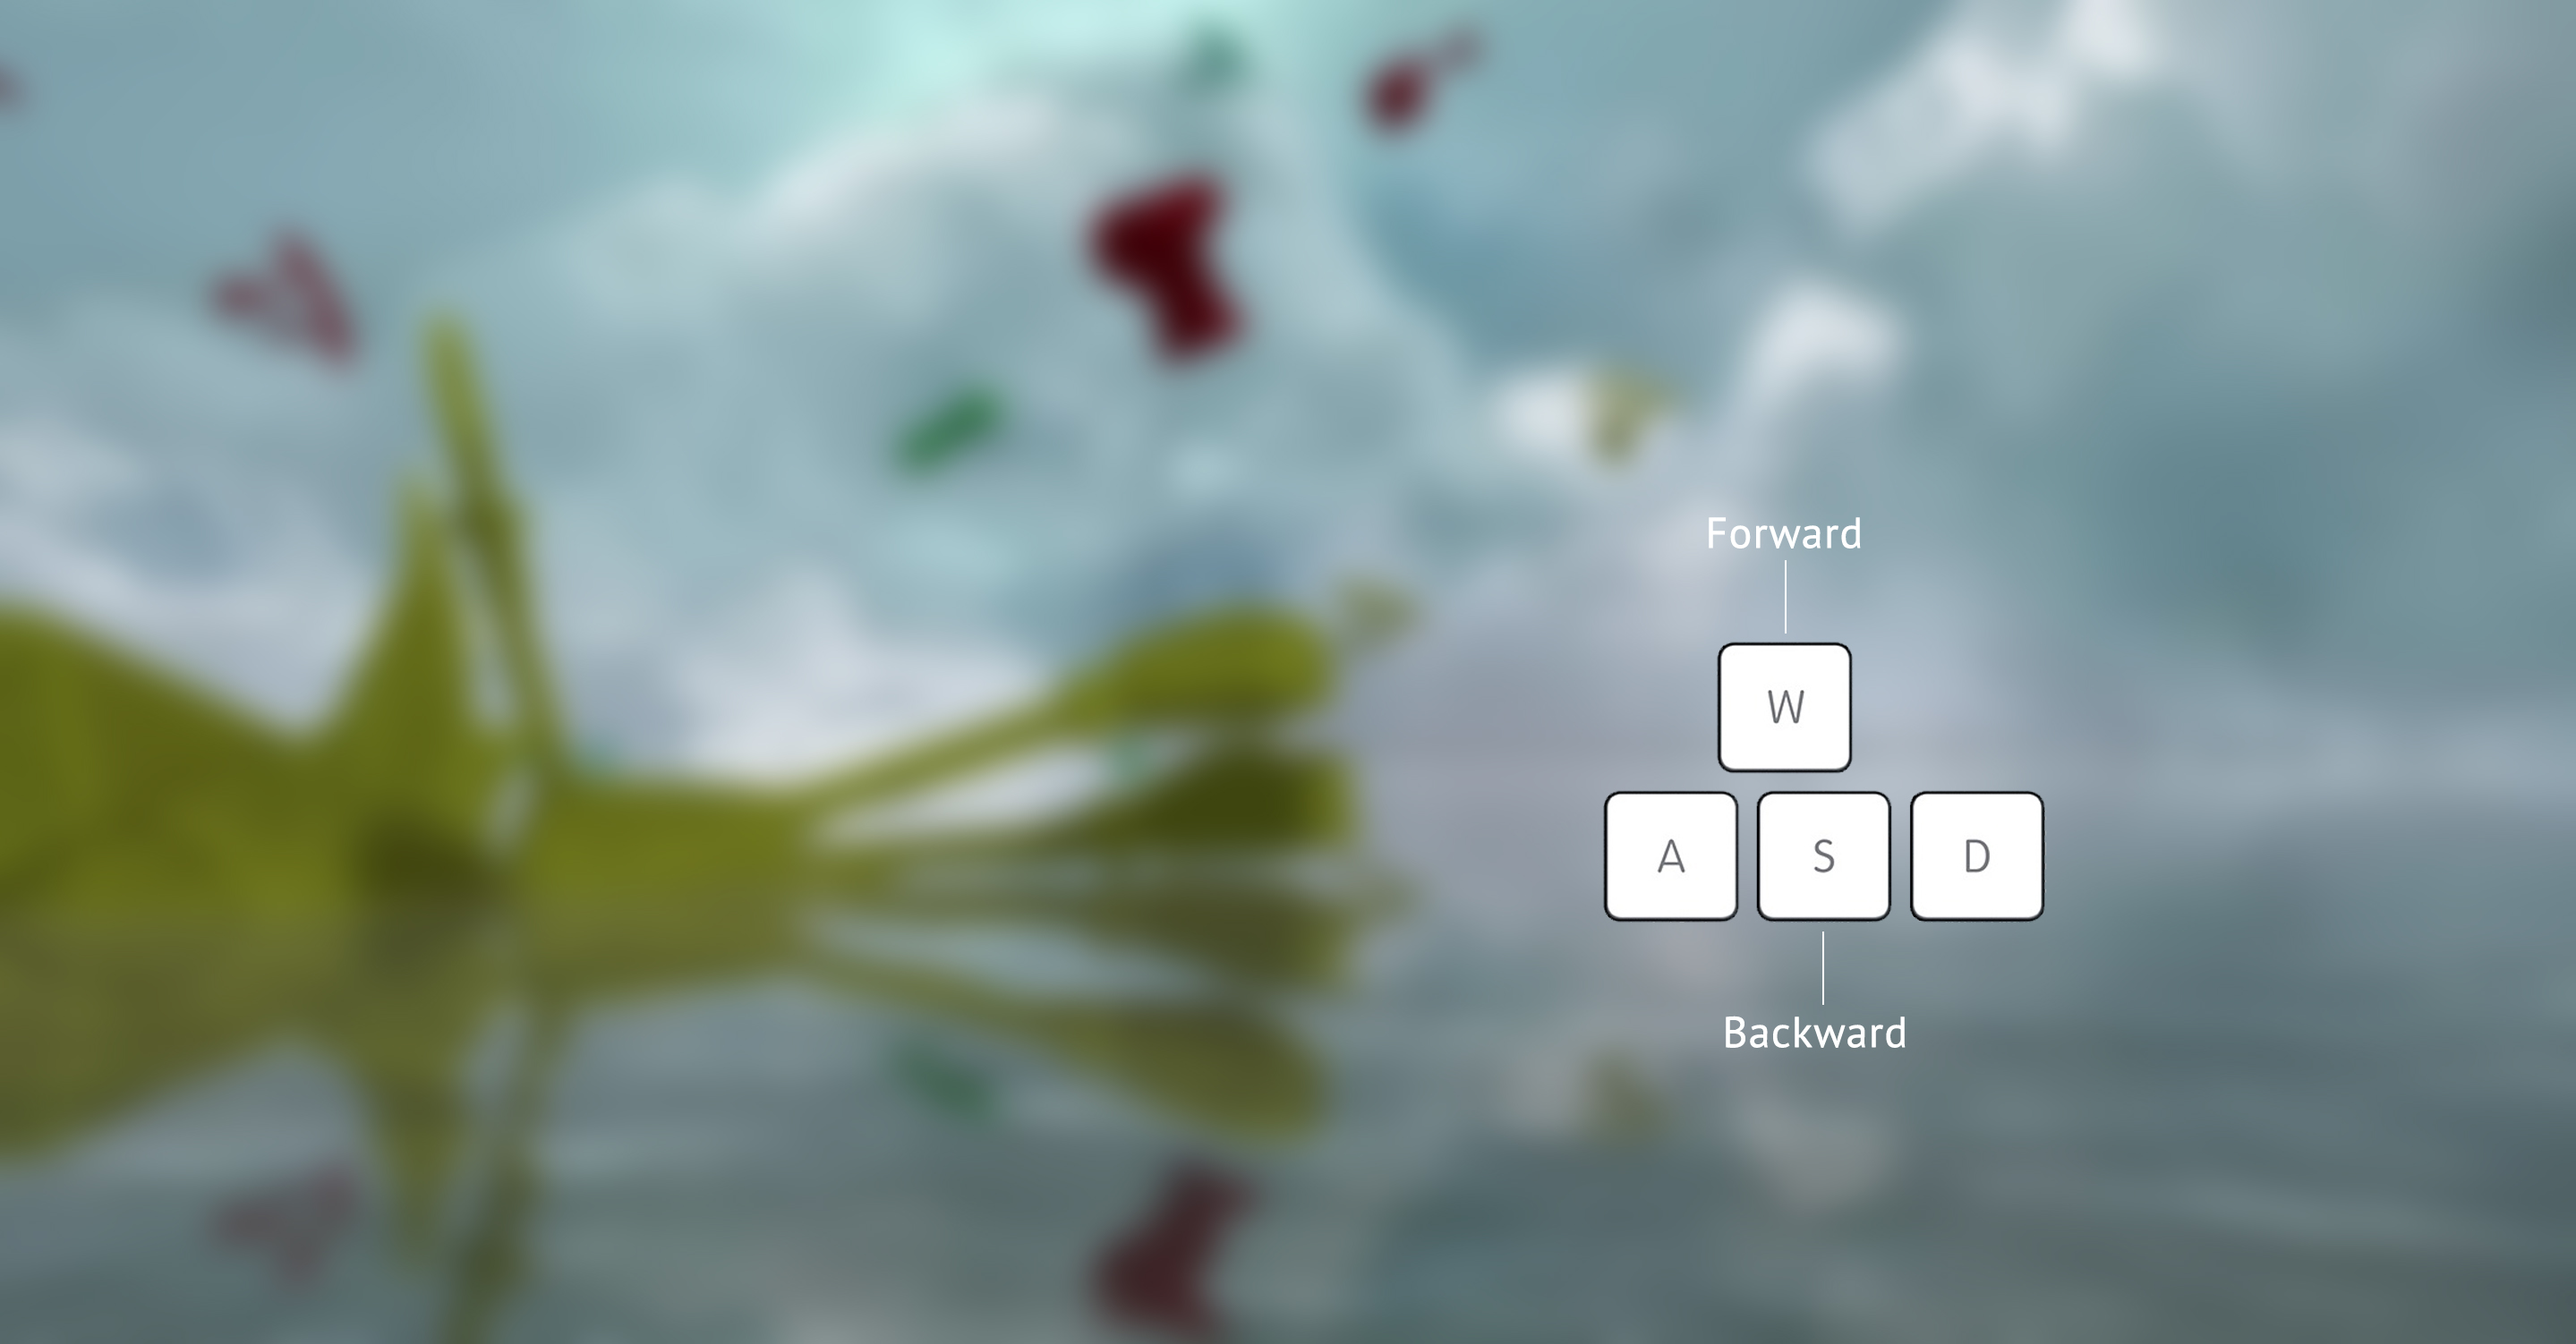
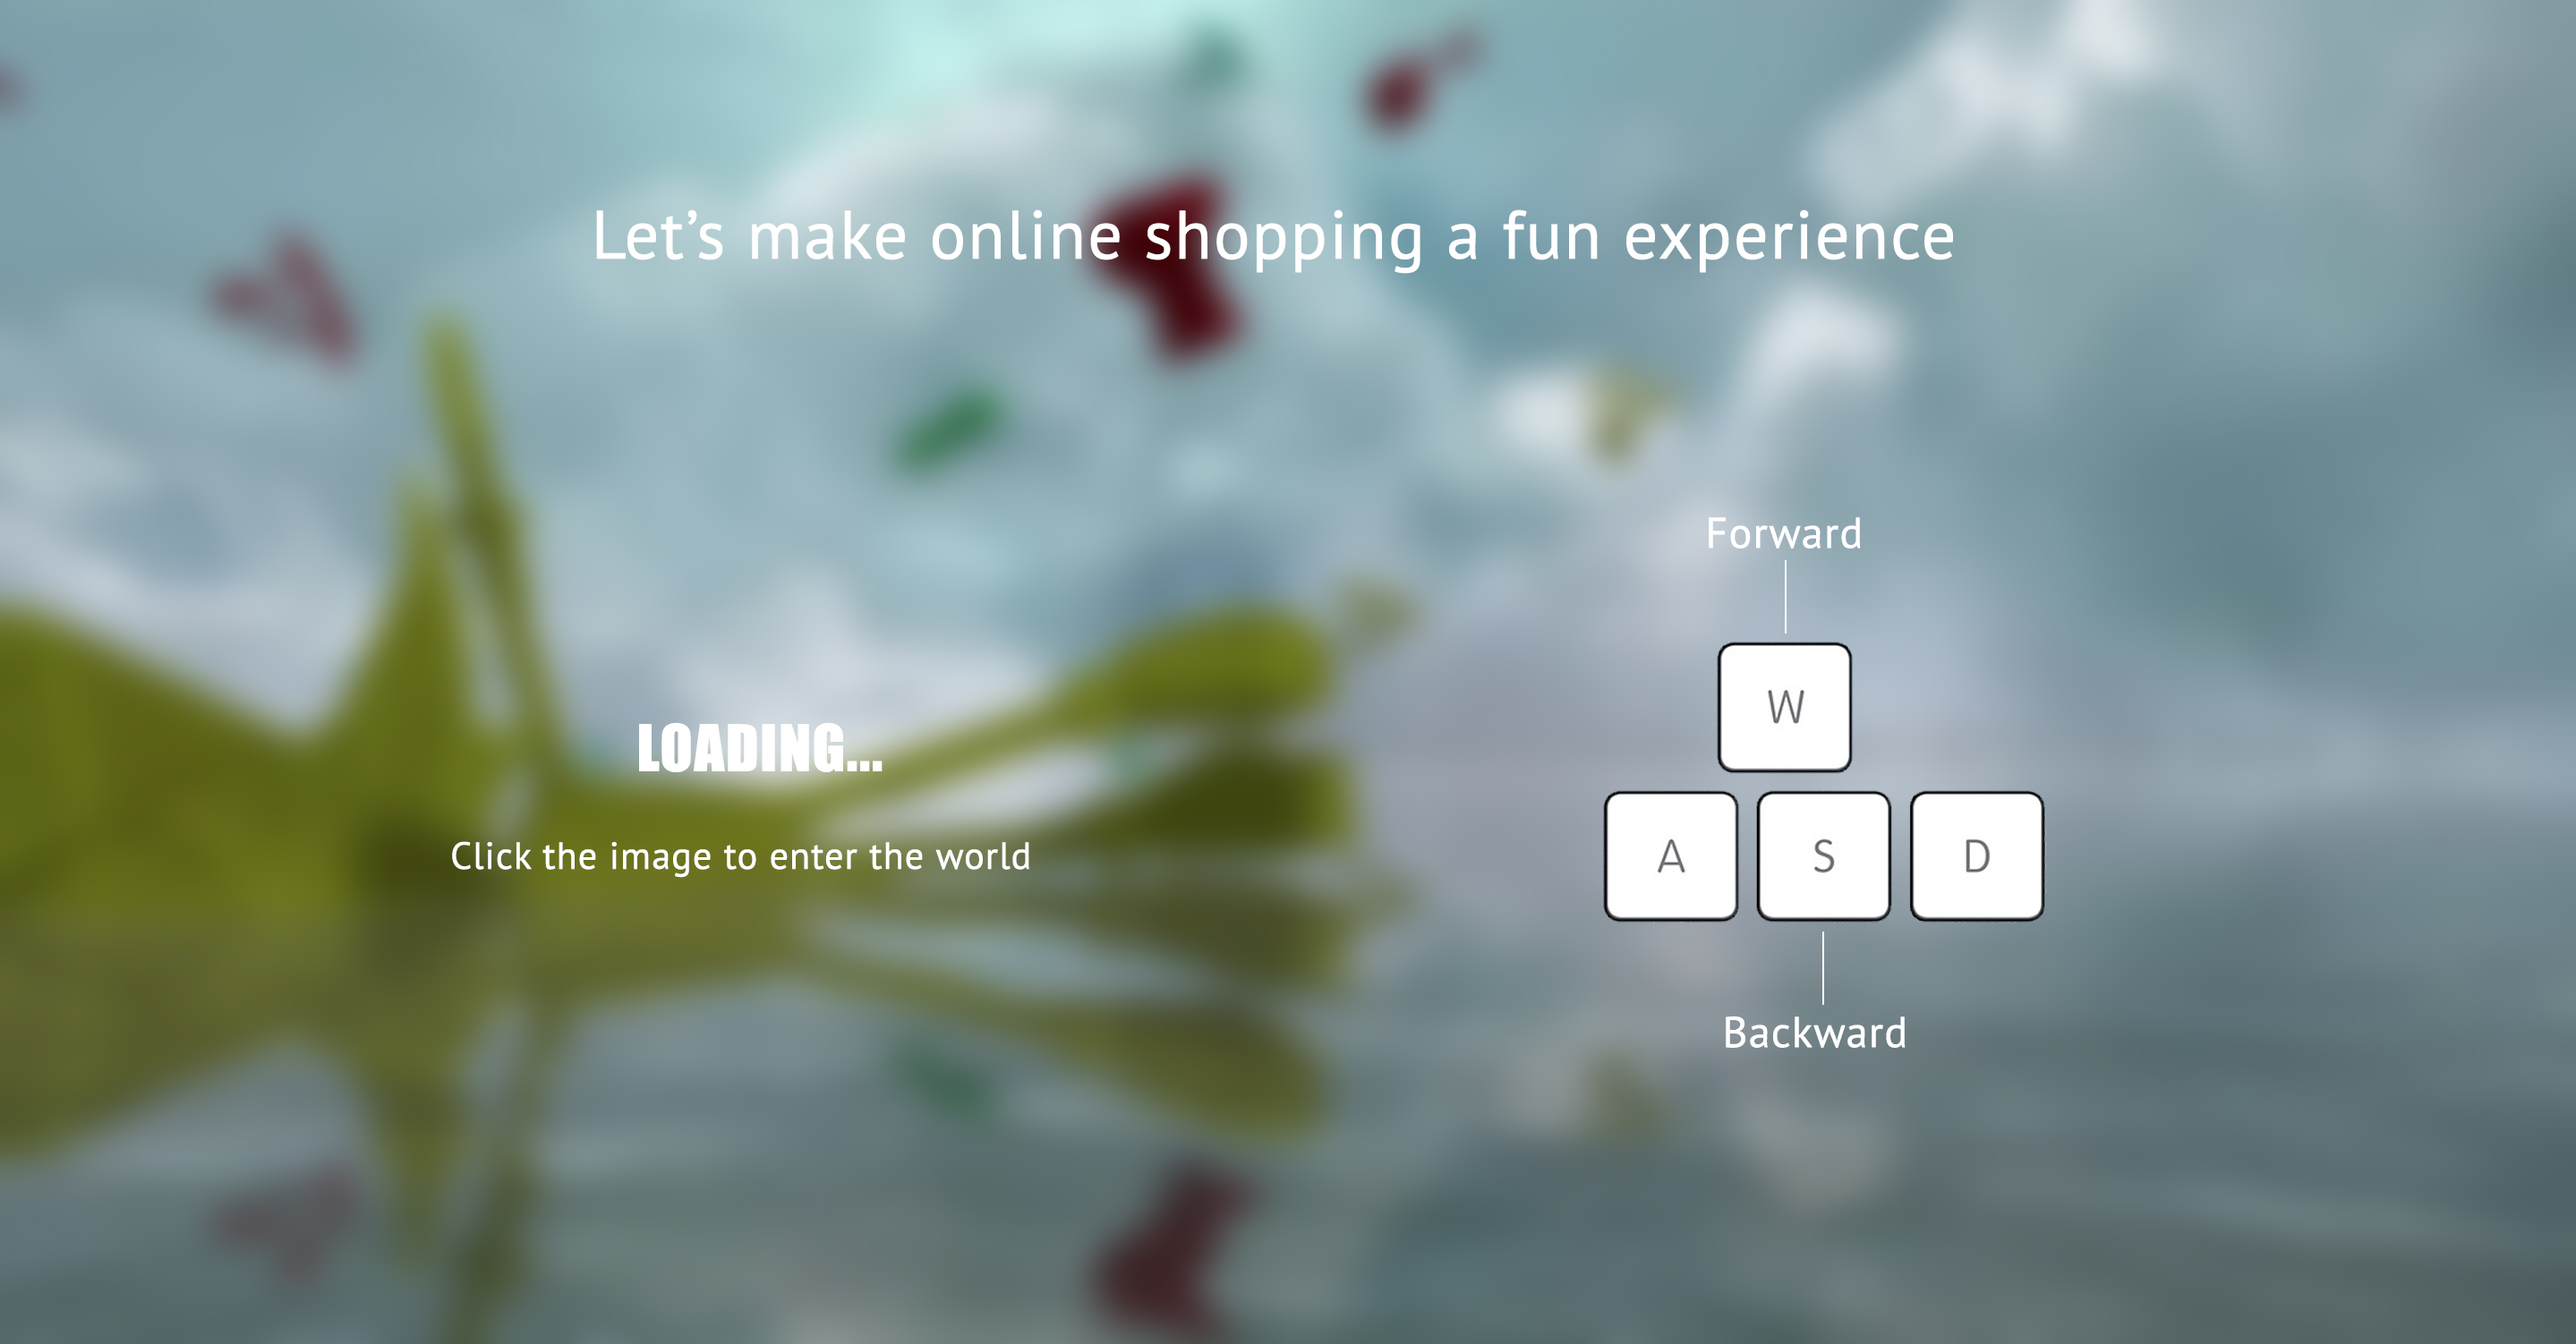
Add loadScreen

Changed region(s): [[0.2165, 0.1531, 0.7731, 0.2144], [0.1855, 0.6125, 0.402, 0.6431], [0.2474, 0.5206, 0.3402, 0.5819]]

diff --git a/client/app/explore/explore.html b/client/app/explore/explore.html
@@ -1,3 +1,7 @@
+<div id="load" onclick="this.parentNode.parentNode.removeChild(this.parentNode);">
+  <img class="img-responsive" src="../assets/images/loadScreen.jpg" ></img>
+</div>
+
 <three-world></three-world>
 <div id="showcase-container" class="pull-right">
   <button type="button" class="close pull-left" aria-label="Close" ng-click="close()">
